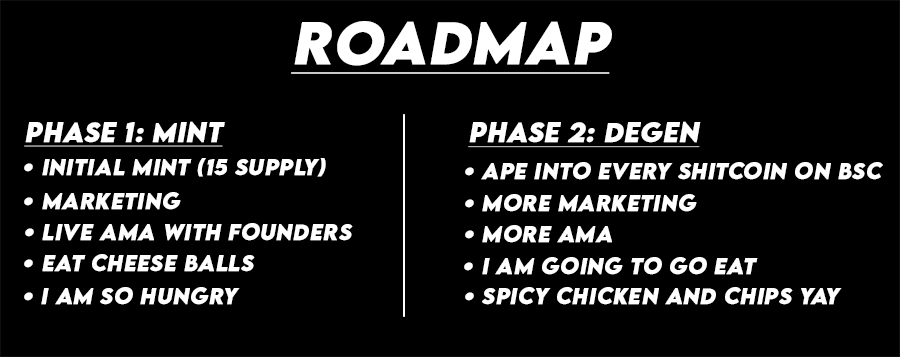
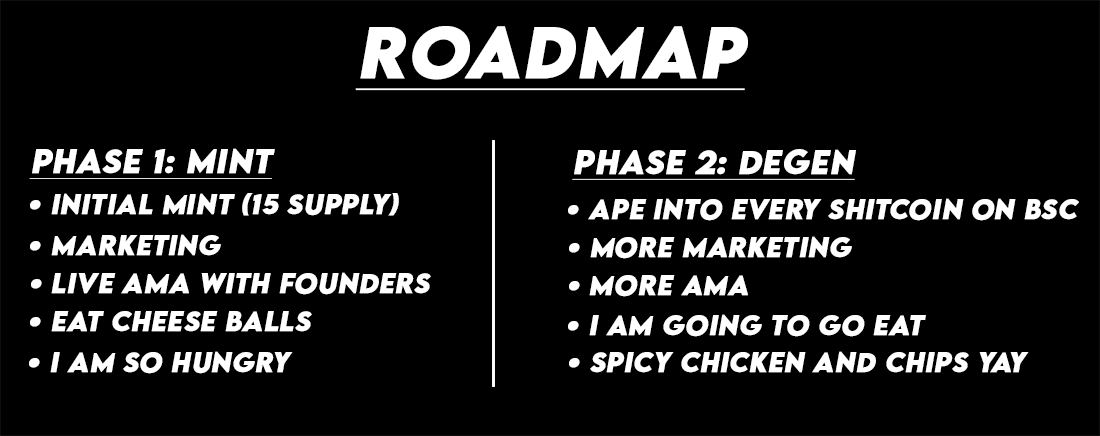
kk

diff --git a/frontend/index.html b/frontend/index.html
@@ -78,7 +78,7 @@
         <p id="welcomeP">
           The CodeCats NFT Project is a decentralized, open-source project that aims to demonstrate how to develope and launch your own NFT Collection. Follow step by step on the <a href="https://youtube.com/codestackr"  target="_blank" rel="noopener noreferrer">codeSTACKr</a> YouTube channel.
         </p>
-        <img id="roadmap" src="images/x-icon/Roadmap.png" >
+        <img id="roadmap" style="padding-top: 40px;backdrop-filter: blur(5px);" src="images/x-icon/Roadmap.png" >
       </div>
     </section>
 
